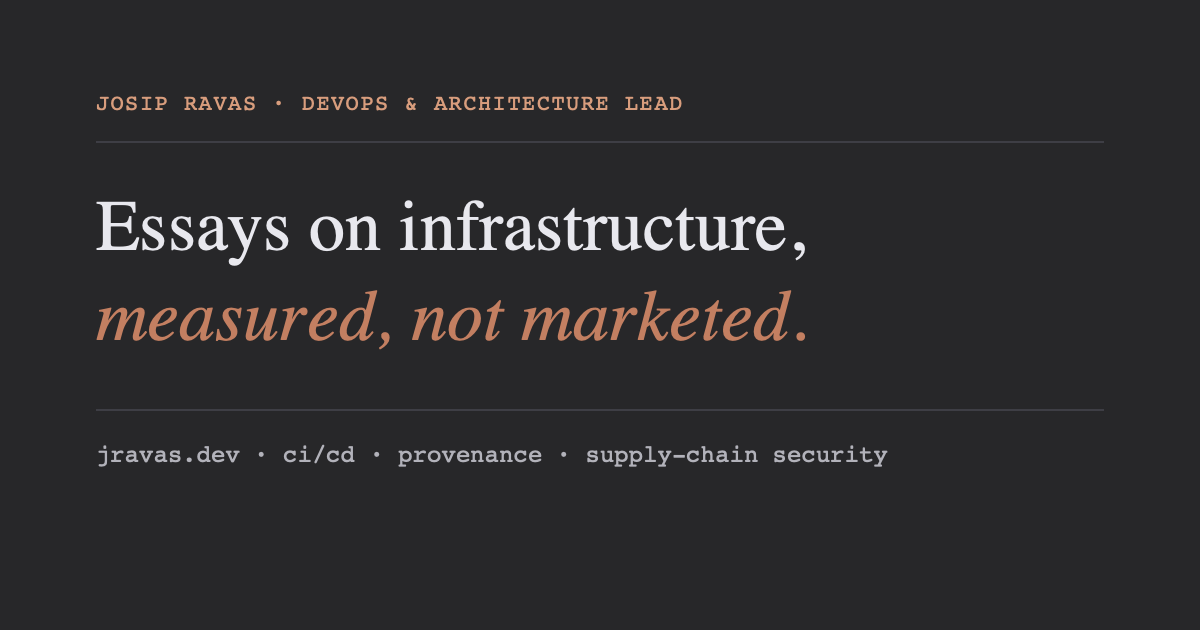
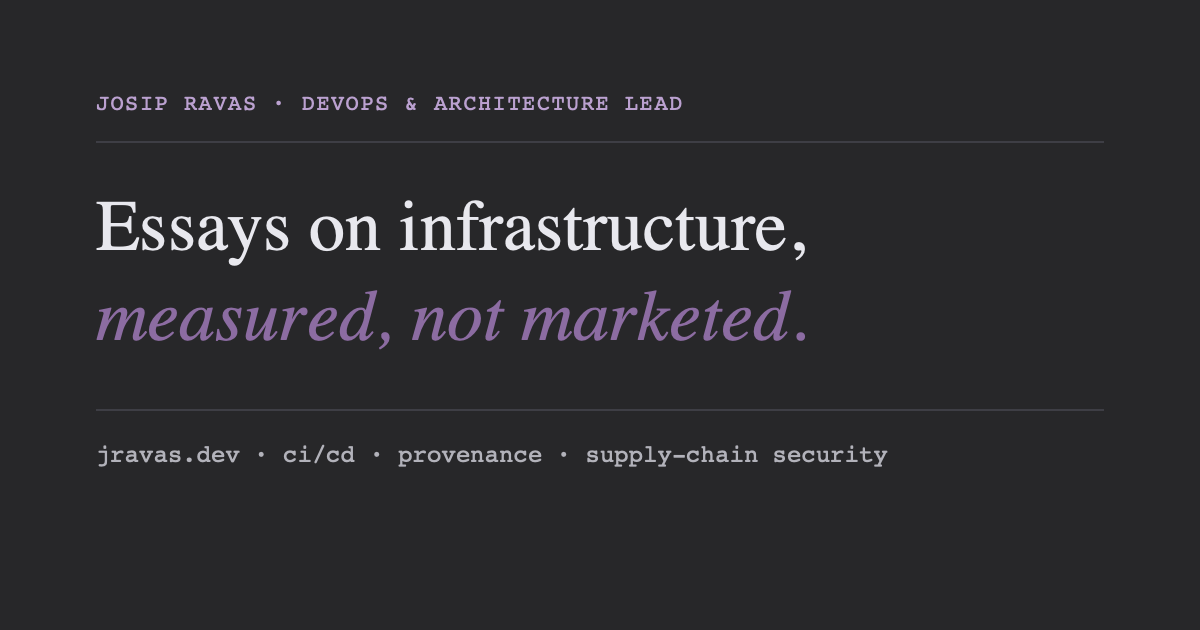
design: accent → Amethyst Orchid (PANTONE 17-3628)
Brandied Melon turned out to be a near-exact twin of Anthropic's book-cloth
clay (#CE7B5B vs #CC785C). The claim moves to Amethyst Orchid — the S/S
2026 violet — registered for the dark ground as #926AA6 (display/fills,
large-text AA) and #C0A0D4 (links, eyebrows, 6.6:1). OG card and favicon
regenerated. No other changes.

diff --git a/src/styles/global.css b/src/styles/global.css
@@ -43,9 +43,9 @@
   --rule: rgba(255, 255, 255, 0.08);
   --rule-strong: #575763;
 
-  /* the claim — Brandied Melon, PANTONE 16-1340 */
-  --accent: #ce7b5b;
-  --accent-ink: #e39a77;
+  /* the claim — Amethyst Orchid, PANTONE 17-3628 */
+  --accent: #926aa6;
+  --accent-ink: #c0a0d4;
 
   /* type */
   --serif: 'Newsreader', Georgia, 'Times New Roman', serif;
